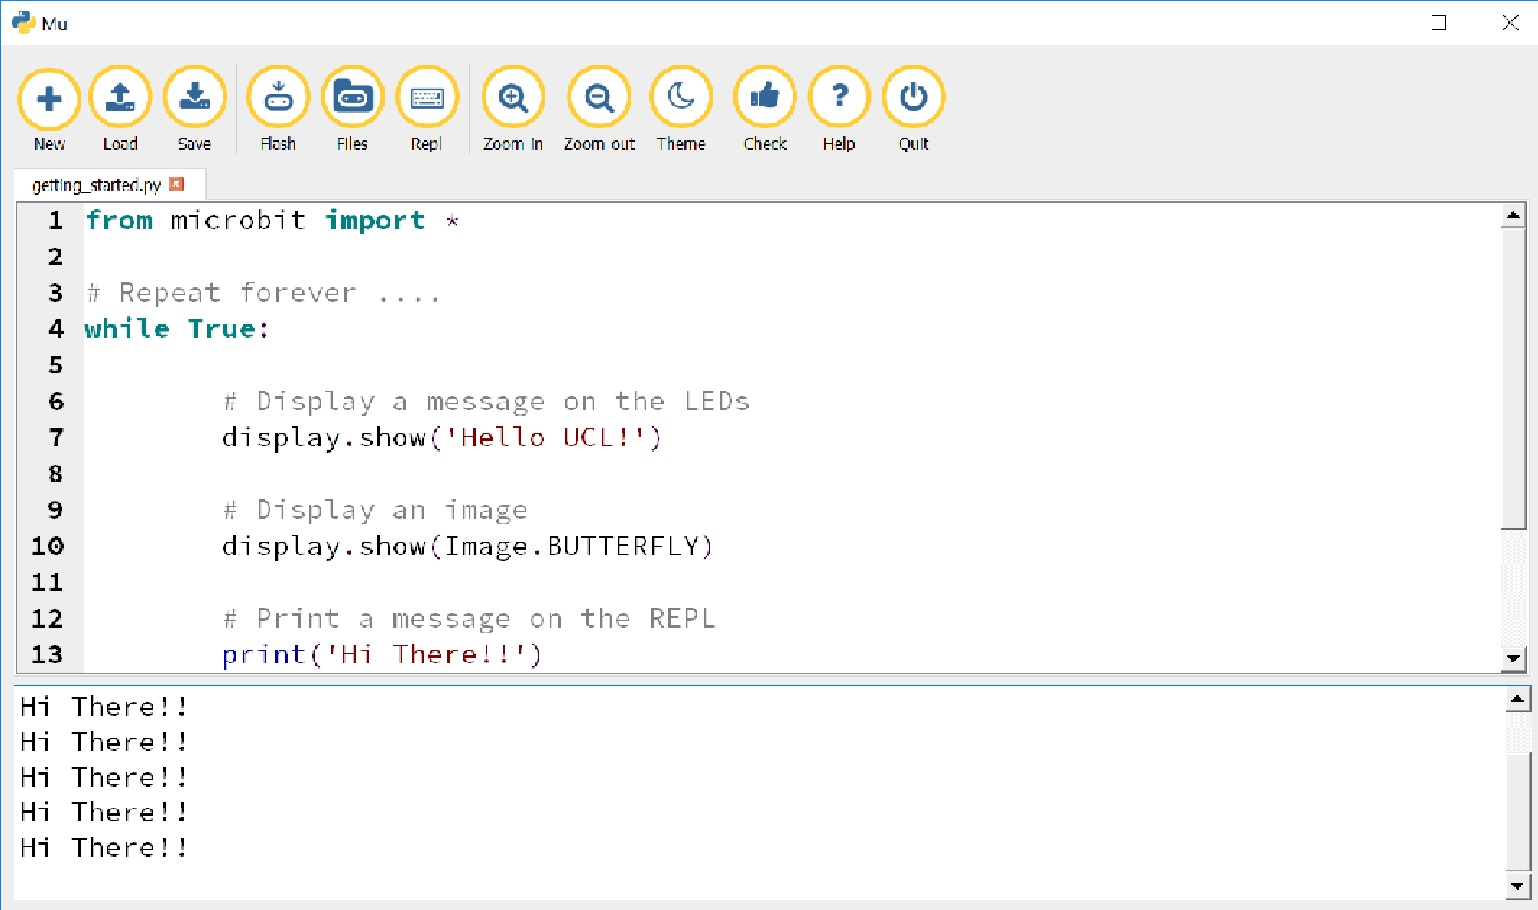
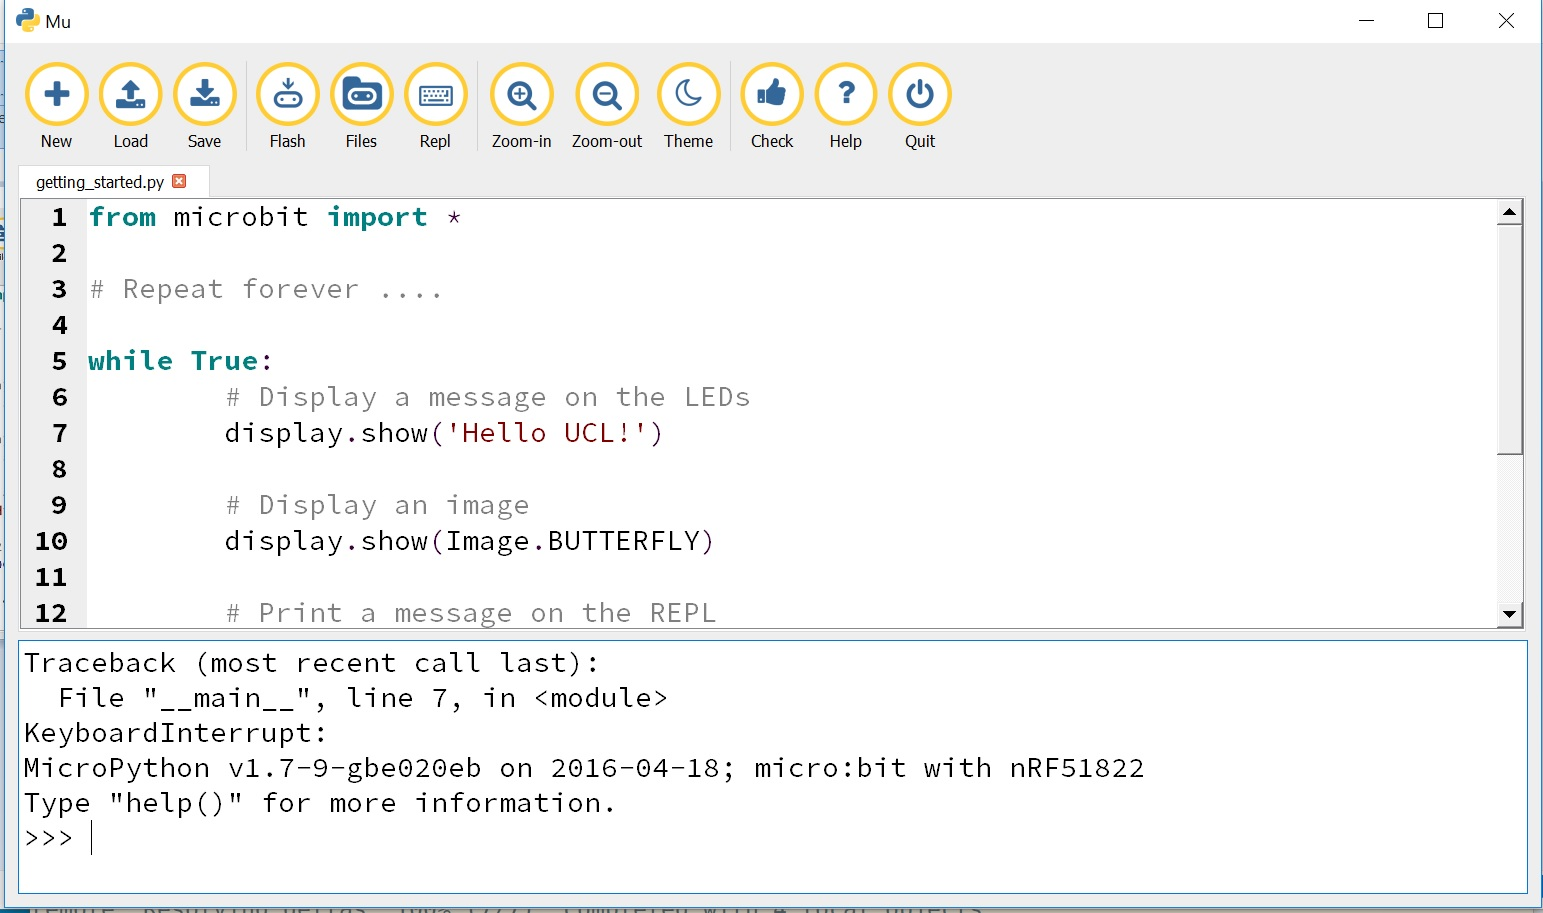
update getting started

Changed region(s): [[0.0, 0.0, 1.0, 1.0], [0.1248, 0.5231, 0.4681, 0.6154], [0.9051, 0.0, 0.9363, 0.0308]]

diff --git a/docs/source/tutorials/getting_started.rst b/docs/source/tutorials/getting_started.rst
@@ -34,14 +34,14 @@ Design the Code
 First of all you are going to write a program to display the message “Hello UCL!” followed by an image on the display of your micro:bit. There's not much planning and design to do here, but just so that you understand what a plan might look like:
 
 .. image:: microbit_plan.jpg
-   :scale: 50%
+   :scale: 70%
    :align: center
 
 Write the Code
 --------------
 We will use a special text editor to write our programs, it looks like the one shown here: 
 
-.. image:: mu_first_program.jpg
+.. image:: mu_getting_started.jpg
    :scale: 60%
    :align: center
 
@@ -78,6 +78,12 @@ Upload the Code
 Final checks. Is your micro:bit connected to your computer? Yes? Then press the flash button:
 
 .. image:: mu_flash.jpg
+   :scale: 60%
+   :align: center
+
+You should see the message and the image displayed on the micro:bit and the message "Hello There!!" should be printed on the REPL.
+
+.. image:: mu_getting_started_repl.jpg
    :scale: 60%
    :align: center
 
